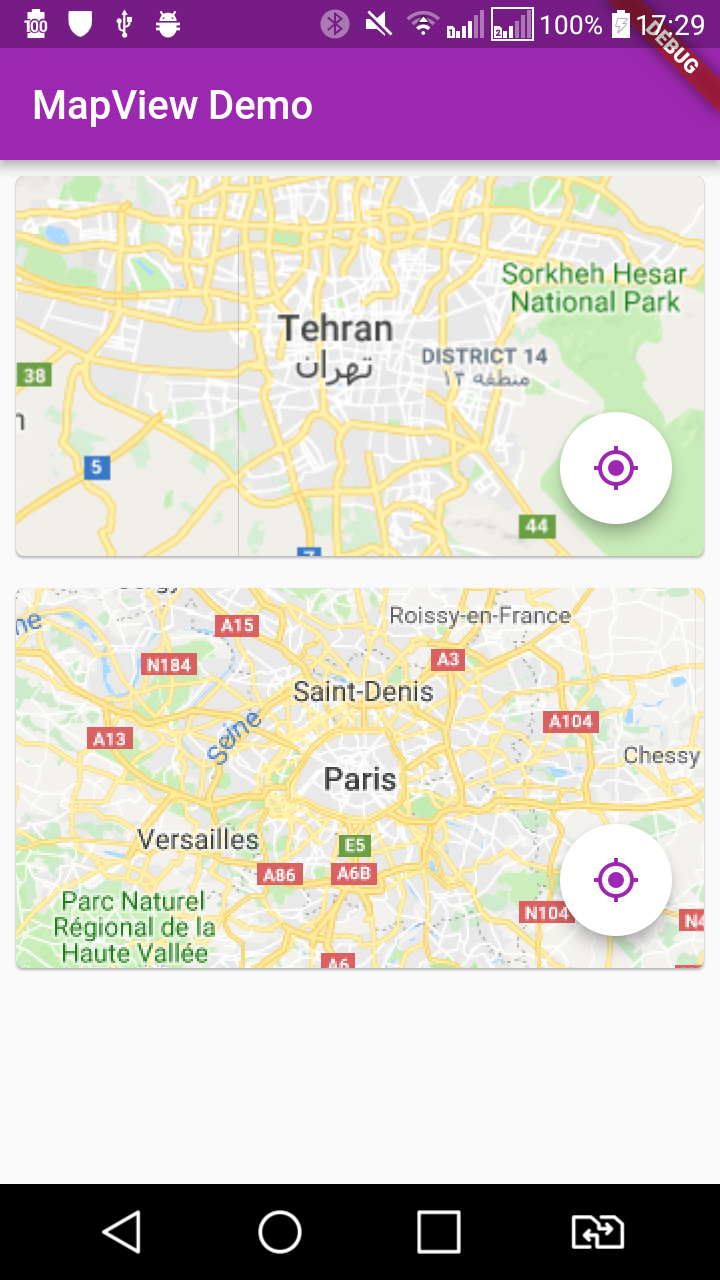
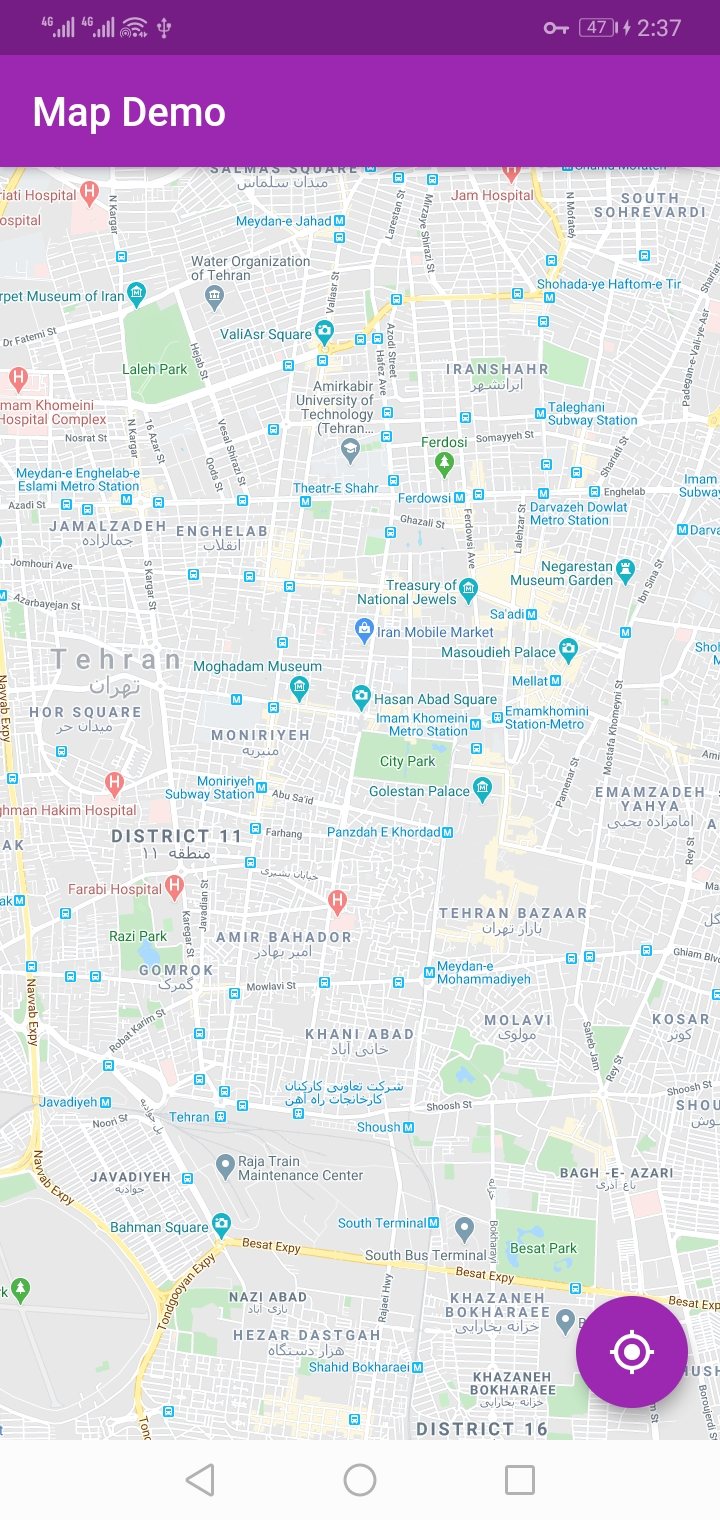
* Re-write of the example project. * Quality of the screenshot has improved. * Example project now works in release mode (Needed internet access permission).

diff --git a/example/lib/main.dart b/example/lib/main.dart
@@ -12,38 +12,56 @@ class MyApp extends StatelessWidget {
       theme: ThemeData(
         primarySwatch: Colors.purple,
       ),
-      home: Scaffold(
-        appBar: AppBar(
-          title: const Text("Map Demo"),
-        ),
-        body: LayoutBuilder(
-          builder: (context, constraints) {
-            final devicePixelRatio = MediaQuery.of(context).devicePixelRatio;
-            final controller = MapController(
-              location: LatLng(35.68, 51.41),
-              tileSize: 256 / devicePixelRatio,
-            );
-
-            return Map(
-              controller: controller,
-              provider: const CachedGoogleMapProvider(),
-            );
-          },
-        ),
-        floatingActionButton: FloatingActionButton(
-          child: Icon(Icons.my_location),
-          onPressed: () {},
-        ),
-      ),
+      home: MyHomePage(),
     );
   }
 }
 
+class MyHomePage extends StatefulWidget {
+  @override
+  _MyHomePageState createState() => _MyHomePageState();
+}
+
+class _MyHomePageState extends State<MyHomePage> {
+  final controller = MapController(
+    location: LatLng(35.68, 51.41),
+  );
+
+  void _incrementCounter() {
+    controller.location = LatLng(35.68, 51.41);
+  }
+
+  @override
+  Widget build(BuildContext context) {
+    final devicePixelRatio = MediaQuery.of(context).devicePixelRatio;
+    controller.tileSize = 256 / devicePixelRatio;
+
+    return Scaffold(
+      appBar: AppBar(
+        // Here we take the value from the MyHomePage object that was created by
+        // the App.build method, and use it to set our appbar title.
+        title: Text('Map Demo'),
+      ),
+      body: Map(
+        controller: controller,
+        provider: const CachedGoogleMapProvider(),
+      ),
+      floatingActionButton: FloatingActionButton(
+        onPressed: _incrementCounter,
+        tooltip: 'My Location',
+        child: Icon(Icons.my_location),
+      ), // This trailing comma makes auto-formatting nicer for build methods.
+    );
+  }
+}
+
+/// You can enable caching by using [CachedNetworkImageProvider] from cached_network_image package.
 class CachedGoogleMapProvider extends MapProvider {
   const CachedGoogleMapProvider();
 
   @override
   ImageProvider getTile(int x, int y, int z) {
+    //Can also use CachedNetworkImageProvider.
     return NetworkImage(
         'https://www.google.com/maps/vt/pb=!1m4!1m3!1i$z!2i$x!3i$y!2m3!1e0!2sm!3i420120488!3m7!2sen!5e1105!12m4!1e68!2m2!1sset!2sRoadmap!4e0!5m1!1e0!23i4111425');
   }

diff --git a/lib/src/map.dart b/lib/src/map.dart
@@ -57,8 +57,7 @@ class _MapState extends State<Map> {
     final scale = pow(2.0, controller._zoom);
 
     final norm = projection.fromLngLatToTileIndex(controller._location);
-    final ttl =
-        TileIndex(norm.x * tileSize * scale, norm.y * tileSize * scale);
+    final ttl = TileIndex(norm.x * tileSize * scale, norm.y * tileSize * scale);
 
     final fixedZoom = (controller._zoom + 0.0000001).toInt();
     final fixedPowZoom = pow(2, fixedZoom);

diff --git a/CHANGELOG.md b/CHANGELOG.md
@@ -10,3 +10,9 @@
 
 * The package latlong is depricated. Stop using it.
 
+### [0.1.0] - Feb 25, 2020
+
+* Re-write of the example project.
+* Quality of the screenshot has improved.
+* Example project now works in release mode (Needed internet access permission).
+
